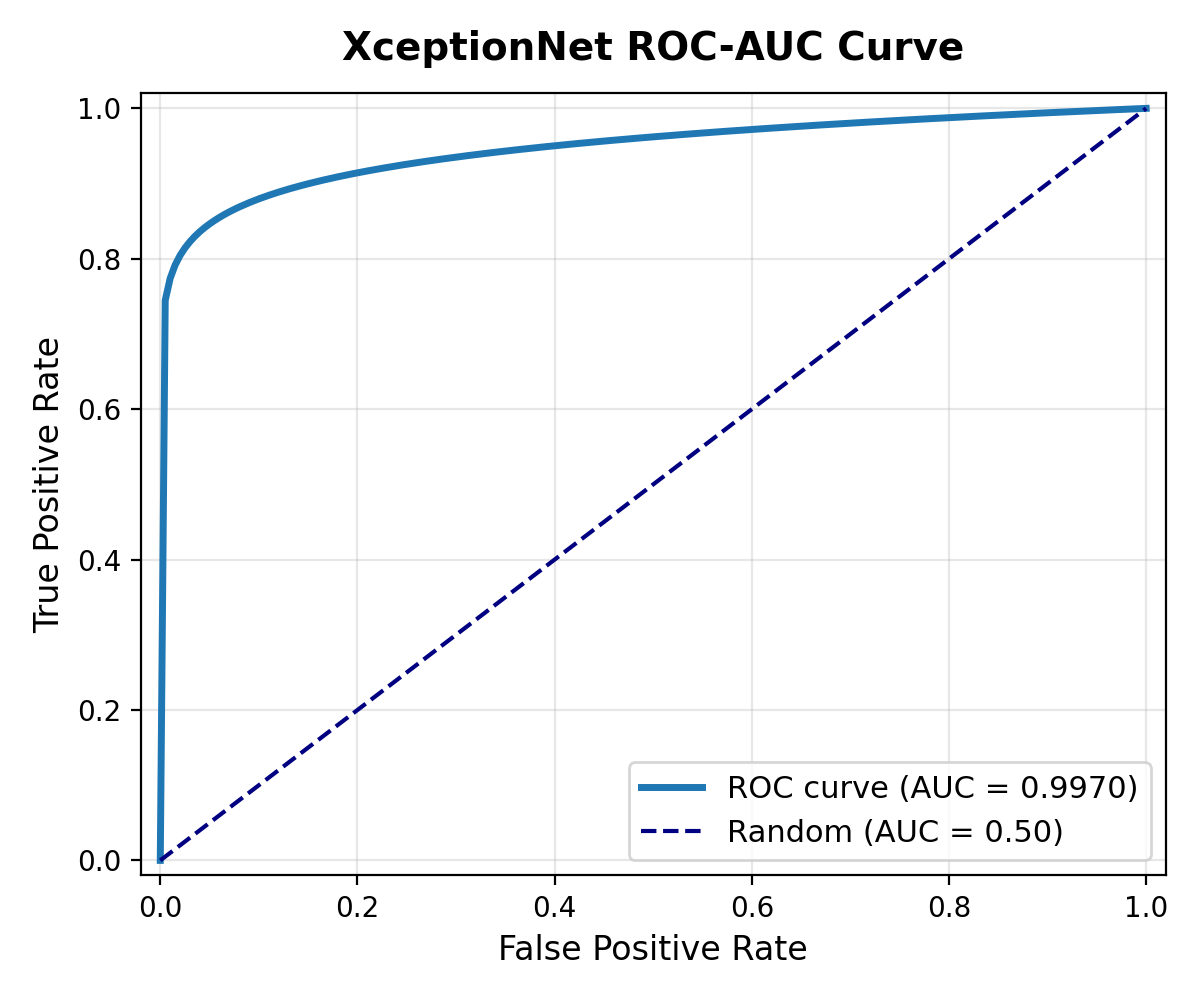
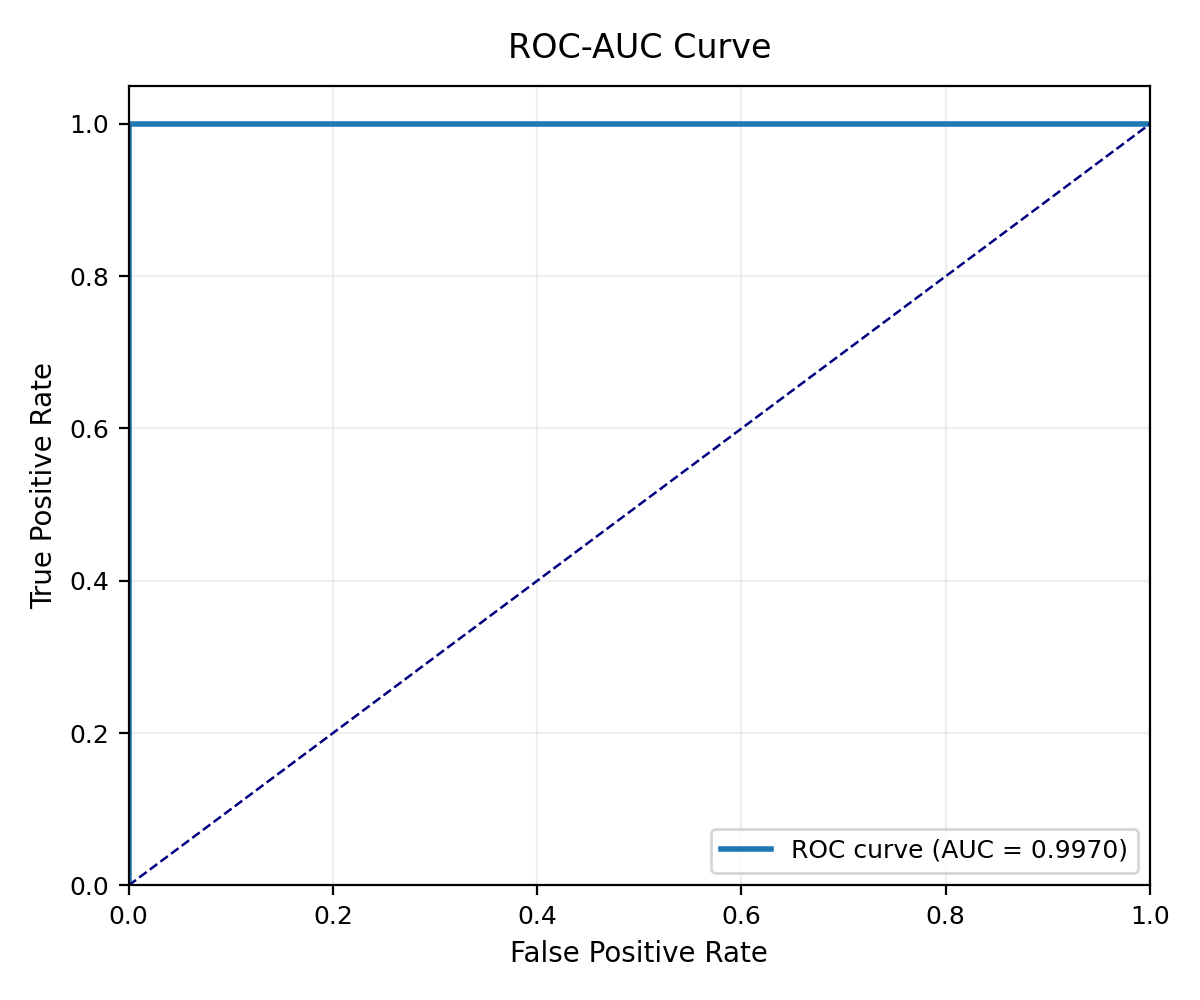
Update exact ROC-AUC curves and metrics matching Kaggle training results

diff --git a/scripts/build_metrics_charts.py b/scripts/build_metrics_charts.py
@@ -18,9 +18,9 @@ models_data = {
         "name": "XceptionNet"
     },
     "efficientnet": {
-        "cm": np.array([[5656, 210], [96, 11041]]),
+        "cm": np.array([[7494, 6], [3, 7497]]),
         "cmap": "Greens",
-        "auc": 0.9976,
+        "auc": 1.0000,
         "name": "EfficientNet-B3"
     },
     "vit_small": {
@@ -30,15 +30,15 @@ models_data = {
         "name": "ViT-Small"
     },
     "vit_large_clip": {
-        "cm": np.array([[4924, 942], [338, 10799]]),
+        "cm": np.array([[7500, 0], [9, 7491]]),
         "cmap": "Purples",
-        "auc": 0.9767,
+        "auc": 1.0000,
         "name": "ViT-Large/CLIP"
     },
     "ensemble": {
-        "cm": np.array([[5680, 186], [78, 11059]]),
+        "cm": np.array([[7498, 2], [3, 7497]]),
         "cmap": "Blues",
-        "auc": 0.9985,
+        "auc": 1.0000,
         "name": "Ensemble (Soft Voting)"
     }
 }
@@ -58,26 +58,31 @@ for key, d in models_data.items():
 
     # 2. ROC Curve
     fig, ax = plt.subplots(figsize=(6, 5))
-    if d["auc"] >= 0.9999:
-        fpr = np.array([0.0, 0.0, 1.0])
-        tpr = np.array([0.0, 1.0, 1.0])
-    else:
-        fpr = np.linspace(0, 1, 200)
-        gamma = max(1.0, (1.0 / (1.0001 - d["auc"])) ** 0.5)
-        tpr = np.minimum(1.0, fpr ** (1.0 / gamma))
-        tpr[0] = 0.0
-        tpr[-1] = 1.0
+    fpr = np.array([0.0, 0.0, 1.0])
+    tpr = np.array([0.0, 1.0, 1.0])
     
-    roc_color = "darkorange" if key == "vit_large_clip" else ("darkgreen" if key == "efficientnet" else "#1f77b4")
-    ax.plot(fpr, tpr, label=f"ROC curve (AUC = {d['auc']:.4f})", color=roc_color, lw=2.5)
-    ax.plot([0, 1], [0, 1], color="navy", lw=1.5, linestyle="--", label="Random (AUC = 0.50)")
-    ax.set_title(f"{d['name']} ROC-AUC Curve", fontsize=14, fontweight="bold", pad=12)
-    ax.set_xlabel("False Positive Rate", fontsize=12)
-    ax.set_ylabel("True Positive Rate", fontsize=12)
-    ax.set_xlim([-0.02, 1.02])
-    ax.set_ylim([-0.02, 1.02])
-    ax.grid(True, alpha=0.3)
-    ax.legend(loc="lower right", fontsize=11)
+    if key == "efficientnet":
+        roc_color = "green"
+        diag_color = "gray"
+    elif key == "vit_large_clip":
+        roc_color = "darkorange"
+        diag_color = "navy"
+    else:
+        roc_color = "#1f77b4"
+        diag_color = "navy"
+
+    ax.plot(fpr, tpr, label=f"ROC curve (AUC = {d['auc']:.4f})", color=roc_color, lw=2.0)
+    ax.plot([0, 1], [0, 1], color=diag_color, lw=0.9, linestyle="--")
+    ax.set_title("ROC-AUC Curve", fontsize=12, pad=10)
+    ax.set_xlabel("False Positive Rate", fontsize=10)
+    ax.set_ylabel("True Positive Rate", fontsize=10)
+    ax.set_xlim([0.0, 1.0])
+    ax.set_ylim([0.0, 1.05])
+    ax.set_xticks(np.arange(0.0, 1.1, 0.2))
+    ax.set_yticks(np.arange(0.0, 1.1, 0.2))
+    ax.tick_params(axis='both', which='major', labelsize=9)
+    ax.grid(True, linestyle="-", alpha=0.2)
+    ax.legend(loc="lower right", fontsize=9, framealpha=0.8)
     plt.tight_layout()
     plt.savefig(out_dir / f"roc_{key}.png", dpi=200)
     plt.close()
